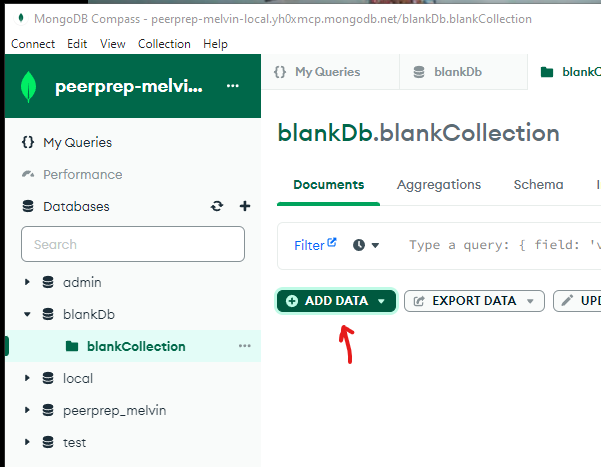
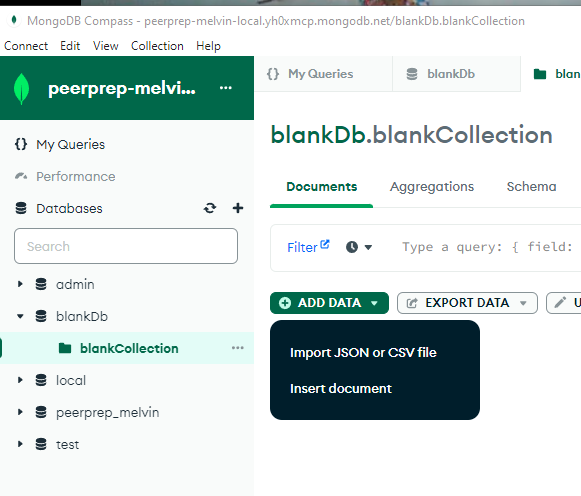
Updated guide image

diff --git a/backend/question-service/README.md b/backend/question-service/README.md
@@ -22,16 +22,15 @@ Make sure your username and password is entered correctly.
 
 ![create database](./guide_assets/create_database.png)
 
-4. Click "Add Data" and then "Import JSON or CSV file"
+4. Access your new collection, click "Add Data" and then "Import JSON or CSV file"
 
 ![add data](./guide_assets/add_data.png)
 
 5. Select the CSV sample questions file
 
-![select csv](./guide_assets/select csv.png)
+![select csv](./guide_assets/select_csv.png)
 
 6. Check fields and press "import"
-
 ![import](./guide_assets/import.png)
 
 
